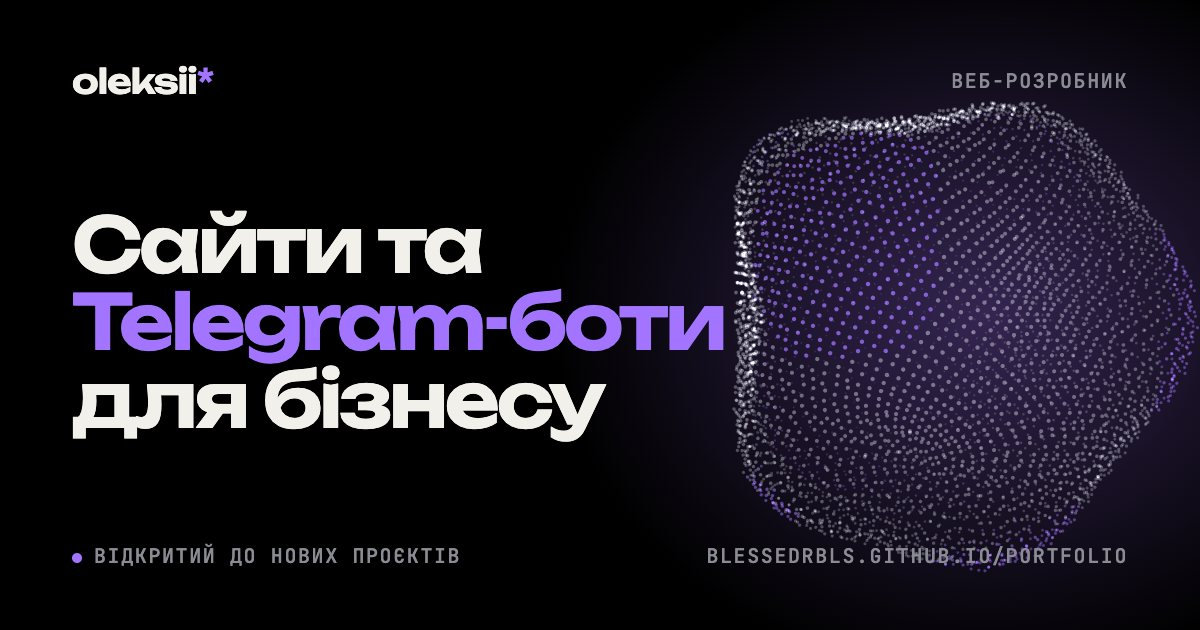
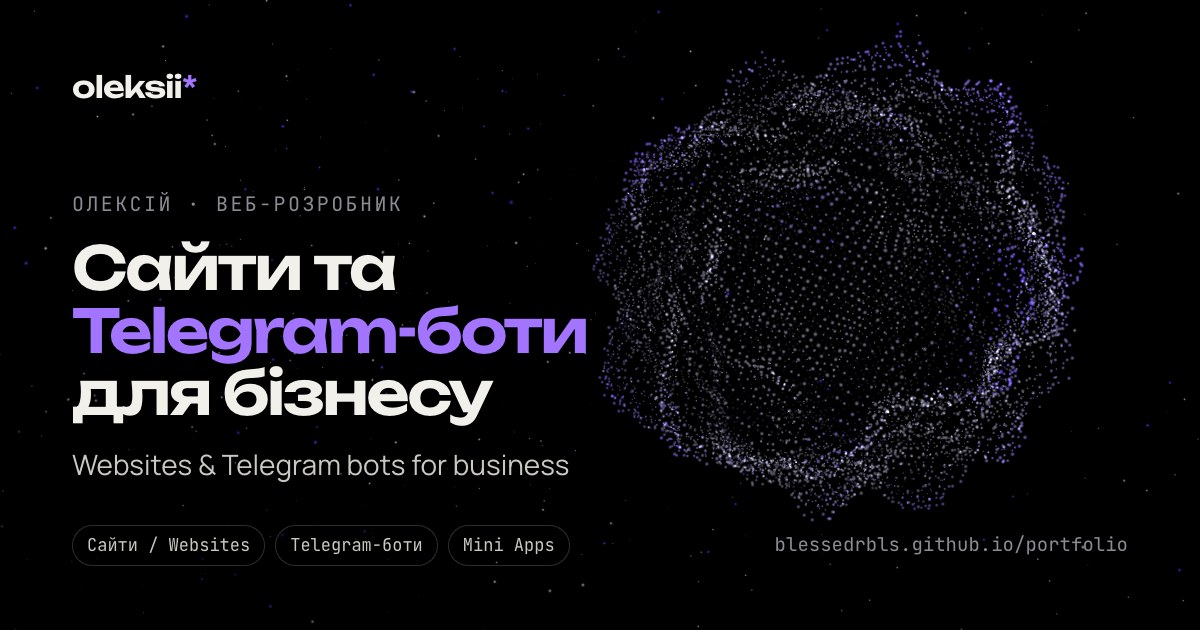
Bilingual link previews for the home page and every case
Rendered from the real sphere and starfield in each project's colour
(tools/og-images.mjs); case pages get their own og:image.

diff --git a/work/booking-bot/index.html b/work/booking-bot/index.html
@@ -16,12 +16,14 @@
   <meta property="og:url" content="https://blessedrbls.github.io/portfolio/work/booking-bot/">
   <meta property="og:title" content="Бот онлайн-запису в барбершоп — кейс">
   <meta property="og:description" content="Клієнт записується до майстра за кілька дотиків і бачить лише реально вільний час. Власник керує розкладом прямо з Telegram — без сайту й окремої програми.">
-  <meta property="og:image" content="https://blessedrbls.github.io/portfolio/images/booking-bot.webp">
-  <meta property="og:image:width" content="1600">
-  <meta property="og:image:height" content="1000">
+  <meta property="og:image" content="https://blessedrbls.github.io/portfolio/images/og/booking-bot.jpg">
+  <meta property="og:image:width" content="1200">
+  <meta property="og:image:height" content="630">
+  <meta property="og:image:alt" content="Бот онлайн-запису в барбершоп / Barbershop booking bot">
   <meta property="og:locale" content="uk_UA">
   <meta property="og:locale:alternate" content="en_US">
   <meta name="twitter:card" content="summary_large_image">
+  <meta name="twitter:image" content="https://blessedrbls.github.io/portfolio/images/og/booking-bot.jpg">
   <script>
     (function () {
       var d = document.documentElement;

diff --git a/work/coffee-miniapp/index.html b/work/coffee-miniapp/index.html
@@ -16,12 +16,14 @@
   <meta property="og:url" content="https://blessedrbls.github.io/portfolio/work/coffee-miniapp/">
   <meta property="og:title" content="Telegram Mini App для кав'ярні — кейс">
   <meta property="og:description" content="Меню, кошик і замовлення на самовивіз прямо в Telegram — без окремого застосунку та дзвінків. Бариста отримує замовлення в бот і змінює статус одним дотиком.">
-  <meta property="og:image" content="https://blessedrbls.github.io/portfolio/images/coffee-miniapp.webp">
-  <meta property="og:image:width" content="1600">
-  <meta property="og:image:height" content="1000">
+  <meta property="og:image" content="https://blessedrbls.github.io/portfolio/images/og/coffee-miniapp.jpg">
+  <meta property="og:image:width" content="1200">
+  <meta property="og:image:height" content="630">
+  <meta property="og:image:alt" content="Telegram Mini App для кав'ярні / Coffee shop Telegram Mini App">
   <meta property="og:locale" content="uk_UA">
   <meta property="og:locale:alternate" content="en_US">
   <meta name="twitter:card" content="summary_large_image">
+  <meta name="twitter:image" content="https://blessedrbls.github.io/portfolio/images/og/coffee-miniapp.jpg">
   <script>
     (function () {
       var d = document.documentElement;

diff --git a/work/barbershop-site/index.html b/work/barbershop-site/index.html
@@ -16,12 +16,14 @@
   <meta property="og:url" content="https://blessedrbls.github.io/portfolio/work/barbershop-site/">
   <meta property="og:title" content="Сайт барбершопу — кейс">
   <meta property="og:description" content="Сайт, що не лише презентує барбершоп, а й записує клієнтів: показує вільний час кожного майстра, не допускає подвійних бронювань і надсилає заявки адмінам у Telegram.">
-  <meta property="og:image" content="https://blessedrbls.github.io/portfolio/images/barbershop-site.webp">
-  <meta property="og:image:width" content="1600">
-  <meta property="og:image:height" content="1000">
+  <meta property="og:image" content="https://blessedrbls.github.io/portfolio/images/og/barbershop-site.jpg">
+  <meta property="og:image:width" content="1200">
+  <meta property="og:image:height" content="630">
+  <meta property="og:image:alt" content="Сайт барбершопу / Barbershop website">
   <meta property="og:locale" content="uk_UA">
   <meta property="og:locale:alternate" content="en_US">
   <meta name="twitter:card" content="summary_large_image">
+  <meta name="twitter:image" content="https://blessedrbls.github.io/portfolio/images/og/barbershop-site.jpg">
   <script>
     (function () {
       var d = document.documentElement;

diff --git a/work/landing-course/index.html b/work/landing-course/index.html
@@ -16,12 +16,14 @@
   <meta property="og:url" content="https://blessedrbls.github.io/portfolio/work/landing-course/">
   <meta property="og:title" content="Лендінг онлайн-курсу — кейс">
   <meta property="og:description" content="Лендінг курсу «Python з нуля за 8 тижнів», який веде відвідувача від першого екрана до заявки: програма, тарифи, відгуки, FAQ і відлік до старту.">
-  <meta property="og:image" content="https://blessedrbls.github.io/portfolio/images/landing-course.webp">
-  <meta property="og:image:width" content="1600">
-  <meta property="og:image:height" content="1000">
+  <meta property="og:image" content="https://blessedrbls.github.io/portfolio/images/og/landing-course.jpg">
+  <meta property="og:image:width" content="1200">
+  <meta property="og:image:height" content="630">
+  <meta property="og:image:alt" content="Лендінг онлайн-курсу / Online course landing page">
   <meta property="og:locale" content="uk_UA">
   <meta property="og:locale:alternate" content="en_US">
   <meta name="twitter:card" content="summary_large_image">
+  <meta name="twitter:image" content="https://blessedrbls.github.io/portfolio/images/og/landing-course.jpg">
   <script>
     (function () {
       var d = document.documentElement;

diff --git a/work/shop-bot/index.html b/work/shop-bot/index.html
@@ -16,12 +16,14 @@
   <meta property="og:url" content="https://blessedrbls.github.io/portfolio/work/shop-bot/">
   <meta property="og:title" content="Бот-магазин — кейс">
   <meta property="og:description" content="Магазин усередині Telegram: каталог, кошик і оформлення замовлення для клієнтів, а для власника — товари, статуси, статистика й розсилки без окремого сайту.">
-  <meta property="og:image" content="https://blessedrbls.github.io/portfolio/images/shop-bot.webp">
-  <meta property="og:image:width" content="1600">
-  <meta property="og:image:height" content="1000">
+  <meta property="og:image" content="https://blessedrbls.github.io/portfolio/images/og/shop-bot.jpg">
+  <meta property="og:image:width" content="1200">
+  <meta property="og:image:height" content="630">
+  <meta property="og:image:alt" content="Бот-магазин / Telegram shop bot">
   <meta property="og:locale" content="uk_UA">
   <meta property="og:locale:alternate" content="en_US">
   <meta name="twitter:card" content="summary_large_image">
+  <meta name="twitter:image" content="https://blessedrbls.github.io/portfolio/images/og/shop-bot.jpg">
   <script>
     (function () {
       var d = document.documentElement;

diff --git a/index.html b/index.html
@@ -25,7 +25,7 @@
   <meta property="og:image" content="https://blessedrbls.github.io/portfolio/og-image.jpg">
   <meta property="og:image:width" content="1200">
   <meta property="og:image:height" content="630">
-  <meta property="og:image:alt" content="Олексій — сайти та Telegram-боти для бізнесу">
+  <meta property="og:image:alt" content="Олексій — сайти та Telegram-боти для бізнесу / Websites &amp; Telegram bots for business">
   <meta property="og:locale" content="uk_UA">
   <meta property="og:locale:alternate" content="en_US">
   <meta name="twitter:card" content="summary_large_image">

diff --git a/README.md b/README.md
@@ -62,4 +62,4 @@ Case texts (both languages) live in `tools/cases-data.mjs`, and screenshots in `
 node tools/build-cases.mjs
 ```
 
-The generator reads covers, colours and links from `PROJECTS` in `main.js`, so they stay in one place. Case pages load the same `main.js` (`<html data-page="case">`) and reuse the 3D scene, cursor and scroll effects; their own styles are in `case.css`. The generated `work/*/index.html` files are committed, so the site still needs no build step to deploy.
+The generator reads covers, colours and links from `PROJECTS` in `main.js`, so they stay in one place. Link previews (Open Graph, 1200×630, Ukrainian + English) are rendered from the real 3D scene: start a local server on port 8123 and run `node tools/og-images.mjs` to regenerate `og-image.jpg` and `images/og/*.jpg`. Case pages load the same `main.js` (`<html data-page="case">`) and reuse the 3D scene, cursor and scroll effects; their own styles are in `case.css`. The generated `work/*/index.html` files are committed, so the site still needs no build step to deploy.
